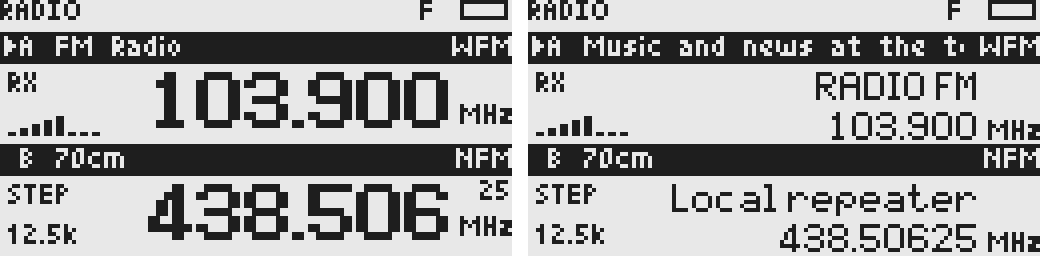
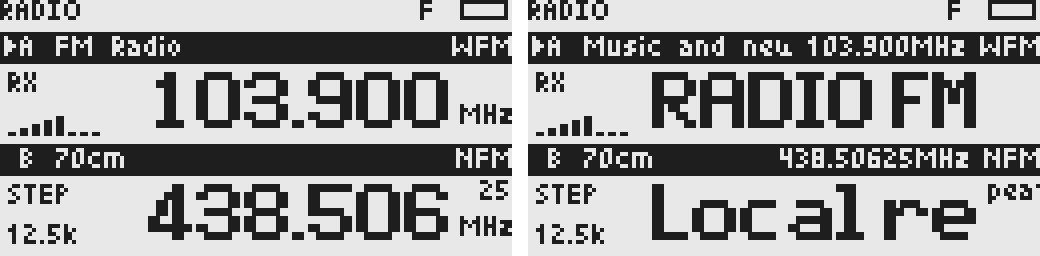
Show names in the large font with the frequency in the header
A named card now draws the name as emboldened 2x medium text, the same
size as a bare frequency, and moves the compact frequency into the
header next to the mode. A notice briefly takes the header frequency's
place. This keeps room for future wide (CJK) channel names.

Changed region(s): [[0.6154, 0.2812, 1.0, 0.6562], [0.6154, 0.7188, 1.0, 1.0], [0.7385, 0.125, 0.9538, 0.2188]]

diff --git a/src/ui/components/radio-card.c b/src/ui/components/radio-card.c
@@ -71,12 +71,14 @@ static void renderActivity(uint8_t y, const UI_RadioCardView *view) {
   UI_SmallTextWindow(2, y+24, 26, lower, 0);
 }
 
-static void renderHeader(uint8_t y, const UI_RadioCardView *view) {
+// The header frequency is shown while the body carries a name.
+static void renderHeader(uint8_t y, const UI_RadioCardView *view, const char *frequency) {
   const char *mode = (unsigned)view->mode < RX_MODE_COUNT ? rxModeNames[view->mode] : "--";
-  const char *text = view->header_message && *view->header_message ? view->header_message :
+  bool notice = view->header_message && *view->header_message;
+  const char *text = notice ? view->header_message :
                      view->radio_text && *view->radio_text ? view->radio_text :
                      view->band_name ? view->band_name : "";
-  uint8_t modeLeft = LCD_WIDTH-UI_SmallTextWidth(mode);
+  uint8_t right = LCD_WIDTH-UI_SmallTextWidth(mode)-3;
   if (view->selected) {
     DrawVLine(1, y+1, 5, C_FILL);
     DrawVLine(2, y+2, 3, C_FILL);
@@ -85,40 +87,46 @@ static void renderHeader(uint8_t y, const UI_RadioCardView *view) {
   char id[2] = {view->id ? view->id : 'A', 0};
   PrintSmall(5, y+5, id);
   if (view->changed) PrintSmall(10, y+5, "*");
-  UI_SmallTextWindow(BAND_X, y+5, modeLeft-3-BAND_X, text, 0);
   PrintSmallEx(LCD_WIDTH, y+5, POS_R, C_FILL, mode);
+  // A notice is brief and takes the frequency's place until it expires.
+  if (frequency && !notice) {
+    PrintSmallEx(right, y+5, POS_R, C_FILL, frequency);
+    right -= UI_SmallTextWidth(frequency)+3;
+  }
+  UI_SmallTextWindow(BAND_X, y+5, right > BAND_X ? right-BAND_X : 0, text, 0);
   FillRect(0, y, LCD_WIDTH, 8, C_INVERT);
 }
 
 void UI_RadioCardRender(uint8_t y, const UI_RadioCardView *view) {
   if (!view || y+UI_RADIO_CARD_HEIGHT > LCD_HEIGHT) return;
   FillRect(0, y, LCD_WIDTH, UI_RADIO_CARD_HEIGHT, C_CLEAR);
-  renderHeader(y, view);
-  renderActivity(y, view);
-  char frequency[16], head[24];
+  char frequency[20], head[24];
   const char *unit = UI_FormatFrequency(view->frequency_hz, frequency);
-  bool tuning = view->edit_text || view->activity == UI_RADIO_CARD_SEEKING;
   if (view->edit_text) {
     Text t = TEXT_Begin(frequency, sizeof(frequency));
     TEXT_Add(&t, view->edit_text);
     unit = "MHz";
   }
-  if (!tuning && view->name && *view->name) {
-    // Name over frequency, both medium and right-aligned to TEXT_RIGHT.
-    const char *rest = fit(view->name, UI_MediumTextWidth, TEXT_RIGHT-BODY_X, head);
-    uint16_t width = UI_MediumTextWidth(head);
-    UI_MediumTextWindow(TEXT_RIGHT-width, y+16, width, head, 0);
-    UI_SmallTextWindow(TAIL_X, y+16, LCD_WIDTH-TAIL_X, rest, 0);
-    width = UI_MediumTextWidth(frequency);
-    UI_MediumTextWindow(TEXT_RIGHT-width, y+26, width, frequency, 0);
-    PrintSmallEx(LCD_WIDTH, y+26, POS_R, C_FILL, unit);
-    return;
+  bool tuning = view->edit_text || view->activity == UI_RADIO_CARD_SEEKING;
+  bool named = !tuning && view->name && *view->name;
+  if (named) { // Compact "438.500MHz" for the header.
+    Text t = TEXT_Begin(frequency + strlen(frequency), sizeof(frequency) - strlen(frequency));
+    TEXT_Add(&t, unit);
   }
-  // Frequency alone: large digits; extra decimals or draft digits stack
-  // small above the unit, keeping their end (the cursor) in view.
-  const char *rest = fit(frequency, UI_LargeTextWidth, TEXT_RIGHT-BODY_X, head);
+  renderHeader(y, view, named ? frequency : NULL);
+  renderActivity(y, view);
+  // Large body text: the name, or else the frequency. What does not fit
+  // continues small in the column above the unit, then the edge clips.
+  const char *body = named ? view->name : frequency;
+  const char *rest = fit(body, UI_LargeTextWidth, TEXT_RIGHT-BODY_X, head);
   uint16_t width = UI_LargeTextWidth(head), tail = UI_SmallTextWidth(rest);
   UI_LargeTextWindow(TEXT_RIGHT-width, y+22, width, head, 0);
+  if (named) {
+    UI_SmallTextWindow(TAIL_X, y+13, LCD_WIDTH-TAIL_X, rest, 0);
+    return;
+  }
+  // Extra decimals right-align over the unit; a long draft keeps its end
+  // (the cursor) in view.
   if (tail <= LCD_WIDTH-TAIL_X) UI_SmallTextWindow(LCD_WIDTH-tail, y+13, tail, rest, 0);
   else UI_SmallTextWindow(TAIL_X, y+13, LCD_WIDTH-TAIL_X, rest, tail-(LCD_WIDTH-TAIL_X));
   PrintSmallEx(LCD_WIDTH, y+22, POS_R, C_FILL, unit);

diff --git a/tests/radio-card-regression.c b/tests/radio-card-regression.c
@@ -1,4 +1,5 @@
 // Real framebuffer rendering: stateless cards, reserved tail column, no scrolling.
+// The body is always large: the name if there is one, else the frequency.
 #include "ui/components/radio-card.h"
 #include "ui/components/frequency.h"
 #include "ui/graphics.h"
@@ -65,31 +66,39 @@ int main(void) {
   assert(leftmost(17,32) >= 30 && ink(124,128,16,23));
   view.edit_text=NULL;
 
-  // Name over frequency, both medium and right-aligned to the same edge.
-  view.frequency_hz=438500000;view.name="Repeater";render(8,&view);
-  assert(ink(30,113,17,25) && ink(30,113,28,36) && !ink(113,128,16,25));
-  unsigned nameLeft=leftmost(17,25);
-  view.name="My Channnnnnnnnnnnnel";render(8,&view);
-  assert(leftmost(17,25) < nameLeft && ink(115,128,17,25) && !ink(113,115,16,36));
-  // Seeking and editing always show the large frequency.
+  // A name takes the large body; the frequency moves into the header.
+  view.frequency_hz=438500000;view.name=NULL;render(8,&view);
   memcpy(saved,gFrameBuffer,sizeof(saved));
+  view.name="RPT";render(8,&view);
+  bool header=false;
+  for (unsigned x=60;x<113;++x) for (unsigned y=8;y<16;++y)
+    header |= GetPixel(x,y) != !!(saved[y/8][x]&(1<<(y%8)));
+  assert(header && ink(30,113,17,32) && !ink(113,128,16,32)); // No unit in the body.
+  unsigned nameLeft=leftmost(17,32);
+  view.name="My Channnnnnnnnnnnnel";render(8,&view);
+  assert(leftmost(17,32) < nameLeft && leftmost(17,32) >= 30);
+  assert(ink(115,128,16,23) && !ink(113,115,16,36) && !ink(115,128,24,32));
+  // Seeking and editing always show the large frequency with its unit.
   view.activity=UI_RADIO_CARD_SEEKING;render(8,&view);
-  assert(!ink(115,128,17,25) && ink(30,113,17,32));
+  assert(ink(115,128,24,32));
   view.activity=UI_RADIO_CARD_IDLE;
 
-  // Header: status message over RT over band; mode stays at the right edge.
+  // Header: status message over RT over band; a notice also takes the
+  // header frequency's place, the mode stays at the right edge.
   view.name="RADIO FM";view.radio_text="Music and news at the top of the hour";
   render(8,&view);memcpy(saved,gFrameBuffer,sizeof(saved));
   view.radio_text=NULL;render(8,&view);
   bool differs=false;
-  for (unsigned x=14;x<100;++x) for (unsigned y=8;y<16;++y)
+  for (unsigned x=14;x<60;++x) for (unsigned y=8;y<16;++y)
     differs |= GetPixel(x,y) != !!(saved[y/8][x]&(1<<(y%8)));
   assert(differs);
   sameRows(16,36); // RT never touches the body.
-  view.radio_text="RT";view.header_message="Channel store unavailable: please retry";
+  view.radio_text="RT";view.header_message="No channel memory";
   render(8,&view);memcpy(saved,gFrameBuffer,sizeof(saved));
   view.radio_text=NULL;render(8,&view);
   sameRows(0,64);
+  view.name=NULL;render(8,&view);
+  sameRows(8,16); // With a notice the header is the same named or not.
 
   // Second row and bounds.
   render(36,&view);

diff --git a/docs/user-manual.md b/docs/user-manual.md
@@ -40,7 +40,7 @@
 
 ## 主界面与按键
 
-主界面顶部保留 8 像素公共状态栏，每个 VFO 组件高 28 像素。组件黑底横条显示选中箭头、A–D、预设修改标记、完整频段名称及右对齐模式。正文左侧空闲时显示步进，接收音频打开时显示 RX 和阶梯信号图标。右侧没有名称时显示大号频率（中字放大两倍加粗），大字最多 7 个字符（含小数点），其余位数用小字放在单位上方，保持实际频率精度，例如 `1339.99` + `998`；低于 1 MHz 使用 kHz，省略无意义的末尾零。有 MR 频道名或广播 RDS 电台名（PS）时，正文改为两行中字：名称在上、完整频率在下，都靠右对齐；名称放不下的部分用小字接在单位上方，再超出就裁掉。广播的 RadioText 显示在该卡片的黑底横条，替换频段名，放不下就裁掉。所有文字都不滚动；输入频率和搜索期间始终显示大号频率。名称编辑与中文字库尚未实现。A 位于 y=8、B 位于 y=36，选中箭头表示调谐和菜单归属，RX／信号仅属于实际接收项，它可能并非选中项；探测时显示 DW，其余行显示步进。两行显示不表示同时接收；Dual Watch 开启时按参与组轮询。C/D 使用同一布局分页，三项时选中 C 显示 B/C。错误、超时、操作反馈和守听提示统一显示在对应 VFO 的黑底状态条，约 2.5 秒后恢复，长文案直接裁掉；频率／名称正文和另一行保持显示。菜单产生提示时暂时显示 VFO，提示结束恢复菜单。量化确认界面使用相同的完整频率格式。详见 [VFO 首屏布局](ui-layout.md)和 [RDS 接收与解析](rds.md)。
+主界面顶部保留 8 像素公共状态栏，每个 VFO 组件高 28 像素。组件黑底横条显示选中箭头、A–D、预设修改标记、完整频段名称及右对齐模式。正文左侧空闲时显示步进，接收音频打开时显示 RX 和阶梯信号图标。右侧没有名称时显示大号频率（中字放大两倍加粗），大字最多 7 个字符（含小数点），其余位数用小字放在单位上方，保持实际频率精度，例如 `1339.99` + `998`；低于 1 MHz 使用 kHz，省略无意义的末尾零。有 MR 频道名或广播 RDS 电台名（PS）时，正文改为同样大小的名称，完整频率以紧凑格式（如 `438.50625MHz`）移到黑底横条右侧、紧挨模式；名称放不下的部分用小字接在右上角，再超出就裁掉。广播的 RadioText 显示在该卡片的黑底横条左侧，替换频段名，放不下就裁掉。所有文字都不滚动；输入频率和搜索期间始终显示大号频率。名称编辑与中文字库尚未实现。A 位于 y=8、B 位于 y=36，选中箭头表示调谐和菜单归属，RX／信号仅属于实际接收项，它可能并非选中项；探测时显示 DW，其余行显示步进。两行显示不表示同时接收；Dual Watch 开启时按参与组轮询。C/D 使用同一布局分页，三项时选中 C 显示 B/C。错误、超时、操作反馈和守听提示统一显示在对应 VFO 的黑底状态条，约 2.5 秒后恢复，长文案直接裁掉；频率／名称正文和另一行保持显示。菜单产生提示时暂时显示 VFO，提示结束恢复菜单。量化确认界面使用相同的完整频率格式。详见 [VFO 首屏布局](ui-layout.md)和 [RDS 接收与解析](rds.md)。
 
 VFO 标识后的 `*` 表示当前模式、步进、带宽或静噪与该频段已保存预设不同，**不表示尚未保存**。接收音频打开时，该 VFO 正文左侧显示 RX 与阶梯信号图标；不同芯片的信号读数用于参考，不是统一校准的测量结果。
 

diff --git a/docs/ui-layout.md b/docs/ui-layout.md
@@ -23,23 +23,23 @@
 
 ## 字体
 
-只用两套文本字体：小字 TomThumb（3×5）和中字 MuMatrix（5×7）。大号频率由中字放大两倍绘制，每个点向右多画 1 px 加粗（数字步进 12 px，小数点 4 px）。见 [字库说明](../src/ui/fonts/README.md)。
+只用两套文本字体：小字 TomThumb（3×5）和中字 MuMatrix（5×7）。正文大字由中字放大两倍绘制，每个点向右多画 1 px 加粗（数字步进 12 px，小数点 4 px）。见 [字库说明](../src/ui/fonts/README.md)。
 
 ## 正文
 
 **只有频率**（VFO、没有名称，或正在输入／搜索）：中字 ×2 靠右对齐。按真实字宽能放几个字符就放几个，可用宽度 83 px 恰好容纳 7 个字符（含小数点），例如 `438.506`、`1339.99`、`410.02`。其余位数用小字堆在单位上方，例如 `438.50625` 显示为 `438.506` + `25`，`1339.99998` 显示为 `1339.99` + `998`。不舍入已应用频率。输入草稿超出小字栏时保留末尾（光标）可见。
 
-**名称 + 频率**（MR 频道名，或广播的 RDS PS）：两行中字，名称在上、完整频率在下，都靠右对齐到 x=113，单位在频率行右侧。名称放不下时从左边界开始，余下字符用小字接在单位上方，再超出就裁掉，例如 `My Channnnnnnnn` + `nnn`。
+**名称**（MR 频道名，或广播的 RDS PS）：名称同样用中字 ×2 大字，靠右对齐到 x=113；完整频率改为紧凑格式（如 `438.50625MHz`）放到横条右侧、紧挨模式。名称放不下时从左边界开始，余下字符用小字接在小字栏上半，再超出就裁掉，例如 `My Chan` + `nnnn`；小字栏下半此时空着（单位随频率进了横条）。大字一行约 6–8 个拉丁字符，以后的中文频道名按同一位置和高度绘制。
 
 输入频率和 Seek 期间始终显示大号频率；频率格式统一由 `UI_FormatFrequency` 生成，低于 1 MHz 使用 kHz，省略无意义的末尾零。
 
 ## 横条
 
-横条文本优先级：临时提示 > RDS RadioText > 频段名（MR 为 `CH 012` 等频道标识）。宽度不足时直接裁掉，选中箭头、A–D 和右侧模式始终保留。短提示和长提示都显示约 2.5 秒后恢复；FC 检测／试听状态持续显示直至退出。
+横条从右往左依次是：模式、（有名称时）紧凑频率、文本。文本优先级：临时提示 > RDS RadioText > 频段名（MR 为 `CH 012` 等频道标识）；宽度不足时直接裁掉，选中箭头、A–D 和模式始终保留。临时提示出现时暂时让出频率的位置，约 2.5 秒后恢复。短提示和长提示都显示约 2.5 秒后恢复；FC 检测／试听状态持续显示直至退出。
 
 ![频率与名称](images/vfo-states.png)
 
-左图：只有频率；右图：A 为广播 PS + RT，B 为 MR 频道名。均使用当前固件绘图代码和示例数据。
+左图：只有频率；右图：A 为广播 PS（大字）+ RT（横条），B 为 MR 频道名，频率都在横条右侧。均使用当前固件绘图代码和示例数据。
 
 ![最长频率与长名称](images/vfo-limits.png)
 

diff --git a/docs/rds.md b/docs/rds.md
@@ -2,7 +2,7 @@
 
 2026-10-13：实际接收归属的 VFO 在 **SI4732 接收路径 + WFM 模式** 下轮询 RDS。BK4819 的 NFM/AM、SI4732 的 AM/SSB 和 BK1080 接收路径不读取 RDS。
 
-当前支持 PI 电台识别码、0A/0B 的 8 字符 Programme Service（PS）电台名，以及 2A 的最多 64 字符、2B 的最多 32 字符 RadioText。PS 作为名称显示在卡片正文，频率在其下方；RadioText 占用该卡片的黑底横条，替换频段名。两者都不滚动，放不下的部分裁掉。没有 PS 时正文只显示大号频率。布局见 [VFO 首屏布局](ui-layout.md)。VFO 自定义名称编辑尚未实现。
+当前支持 PI 电台识别码、0A/0B 的 8 字符 Programme Service（PS）电台名，以及 2A 的最多 64 字符、2B 的最多 32 字符 RadioText。PS 作为名称以大字显示在卡片正文，频率移到横条右侧；RadioText 占用横条左侧，替换频段名。两者都不滚动，放不下的部分裁掉。没有 PS 时正文只显示大号频率。布局见 [VFO 首屏布局](ui-layout.md)。VFO 自定义名称编辑尚未实现。
 
 ![当前频率与名称布局](images/vfo-states.png)
 

diff --git a/docs/README.md b/docs/README.md
@@ -11,7 +11,7 @@
 
 - [A/B VFO 实现设计](ab-vfo-design.md)：双 VFO 独立状态、F→2 切换、单路接收、配置迁移的第一阶段记录；当前扩展见多 VFO 文档。
 - [重构进度与当前操作](refactor-progress.md)：A/B VFO 与极简接收实现、按键及后续工作。
-- [VFO 首屏布局](ui-layout.md)：28 px 无状态卡片、大号频率与名称＋频率两种正文、小字栏规则、阶梯信号图标和实际帧缓冲预览。
+- [VFO 首屏布局](ui-layout.md)：28 px 无状态卡片、正文大字（频率或名称）、横条频率、小字栏规则、阶梯信号图标和实际帧缓冲预览。
 - [RDS 接收与解析](rds.md)：SI4732 电台名、广播文本、轮询与错误过滤。
 - [用户手册](user-manual.md)：当前 A/B VFO 操作、频段列表编辑器与独立预设、频率输入、模式、设置与手册维护约定。
 - [极简无线电设计](design.md)：单 VFO 阶段演进、明确解调模式、独立频段预设与自动接收路径的后续设计。

diff --git a/src/ui/fonts/README.md b/src/ui/fonts/README.md
@@ -5,10 +5,10 @@
 | 字库 | 尺寸 | 用途 |
 | --- | --- | --- |
 | `TomThumb.h` | 3×5 | 黑底横条、状态栏、菜单、单位、卡片小字栏 |
-| `muMatrix8ptRegular.h` | 5×7 | 卡片名称／频率、文本输入、提示页、菜单标题 |
+| `muMatrix8ptRegular.h` | 5×7 | 卡片正文（×2）、文本输入、提示页、菜单标题 |
 | `symbols.h` | 8×8 内 | 状态栏图标 |
 
-卡片的大号频率不另设字库：`UI_LargeTextWindow` 把中字放大两倍，每个点向右多画 1 px，笔画因此接近粗体。数字步进 12 px、小数点 4 px，`UI_LargeTextWidth` 恒为 `UI_MediumTextWidth` 的两倍。
+卡片正文的大字（频率或名称）不另设字库：`UI_LargeTextWindow` 把中字放大两倍，每个点向右多画 1 px，笔画因此接近粗体。数字步进 12 px、小数点 4 px，`UI_LargeTextWidth` 恒为 `UI_MediumTextWidth` 的两倍。
 
 2026-10-14 前卡片使用 Adobe X11 Helvetica Bold 12 px（95 个 ASCII 字形，1,434 B），已删除。
 
